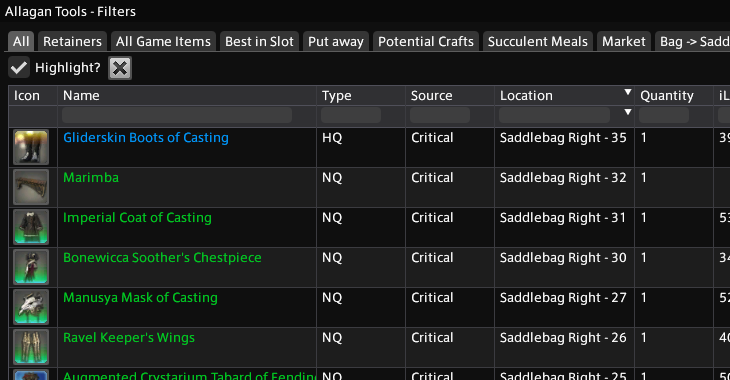
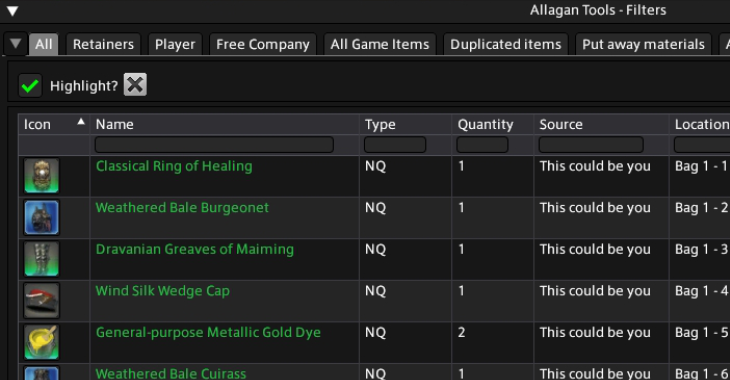
Update images & blurb and fix minor scaling issue

diff --git a/InventoryTools/Ui/Windows/CraftsWindow.cs b/InventoryTools/Ui/Windows/CraftsWindow.cs
@@ -233,6 +233,13 @@ namespace InventoryTools.Ui
             if (filterConfigurations.Contains(filterConfiguration))
             {
                 _selectedFilterTab = filterConfigurations.IndexOf(filterConfiguration);
+                var filterIndex = Filters.Contains(filterConfiguration) ? Filters.IndexOf(filterConfiguration) : -1;
+                if (filterIndex != -1)
+                {
+                    _newTab = filterIndex;
+                }
+
+                _applyNewTabTime = DateTime.Now + TimeSpan.FromMilliseconds(10);
                 if (showSettings)
                 {
                     _settingsActive = true;
@@ -288,6 +295,7 @@ namespace InventoryTools.Ui
                                 {
                                     _newTab = null;
                                     _applyNewTabTime = null;
+                                    _selectedFilterTab = index;
                                 }
                                 GetFilterMenu(filterConfiguration, WindowLayout.Tabs).Draw();
 
@@ -334,7 +342,7 @@ namespace InventoryTools.Ui
             if (filterIndex != -1)
             {
                 _newTab = filterIndex;
-                _applyNewTabTime = DateTime.Now + TimeSpan.FromMilliseconds(5);
+                _applyNewTabTime = DateTime.Now + TimeSpan.FromMilliseconds(10);
                 //ImGui being shit workaround
             }
         }
@@ -553,7 +561,7 @@ namespace InventoryTools.Ui
                         ImGui.SameLine();
                         float width = ImGui.GetWindowSize().X;
                         width -= 28;
-                        ImGui.SetCursorPosX(width * ImGui.GetIO().FontGlobalScale);
+                        ImGui.SetCursorPosX(width);
                         if (_searchIcon.Draw("tb_oib"))
                         {
                             _addItemBarOpen = !_addItemBarOpen;
@@ -563,7 +571,7 @@ namespace InventoryTools.Ui
 
                         ImGui.SameLine();
                         width -= 28;
-                        ImGui.SetCursorPosX(width * ImGui.GetIO().FontGlobalScale);
+                        ImGui.SetCursorPosX(width);
                         if (_editIcon.Draw("tb_edit"))
                         {
                             _settingsActive = !_settingsActive;
@@ -1023,7 +1031,12 @@ namespace InventoryTools.Ui
 
         public override void Invalidate()
         {
+            var selectedConfiguration = SelectedConfiguration;
             _filters = null;
+            if (selectedConfiguration != null)
+            {
+                FocusFilter(selectedConfiguration);
+            }
         }
     }
 }

diff --git a/InventoryTools/Ui/Windows/FiltersWindow.cs b/InventoryTools/Ui/Windows/FiltersWindow.cs
@@ -696,7 +696,7 @@ namespace InventoryTools.Ui
                     
                     ImGui.SameLine();
                     width -= 28;
-                    ImGui.SetCursorPosX(width * ImGui.GetIO().FontGlobalScale);
+                    ImGui.SetCursorPosX(width);
                     if (_editIcon.Draw("tb_edit"))
                     {
                         _settingsActive = !_settingsActive;
